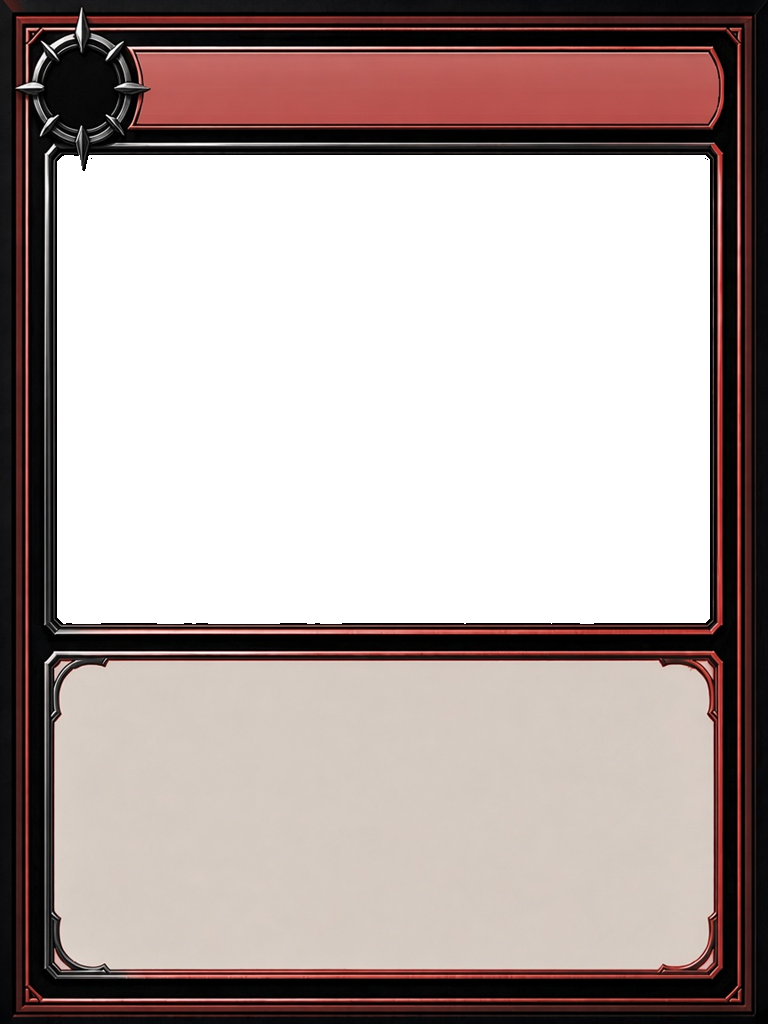
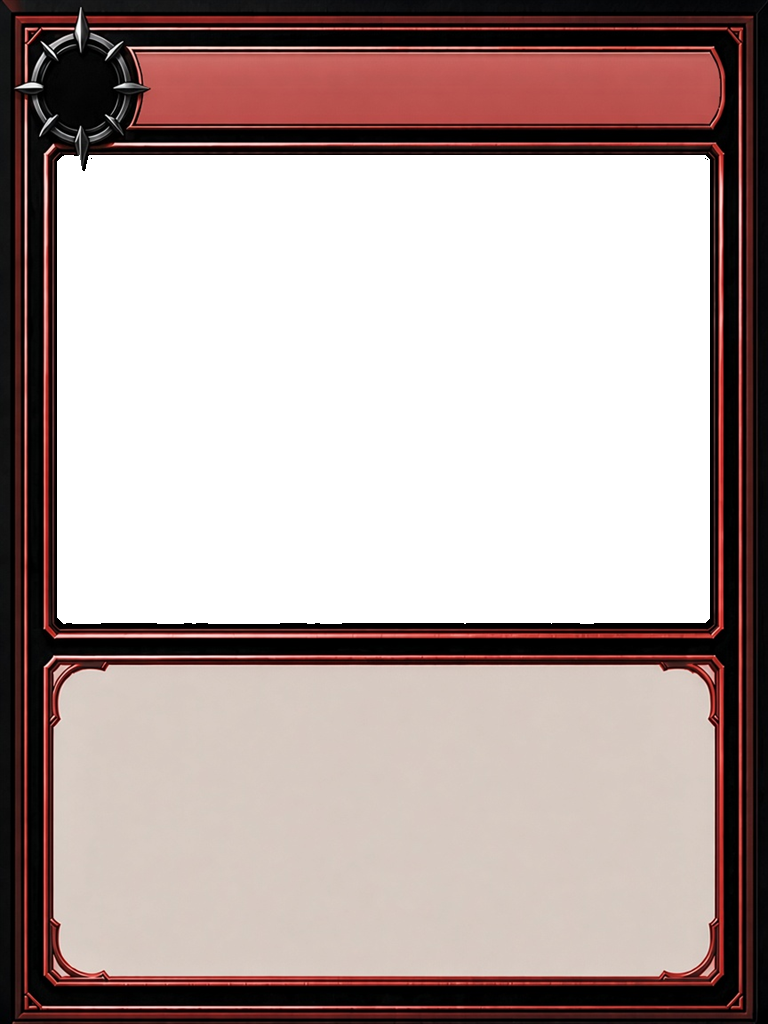
カードリストのマナ銅・金・黒は、棘の色だけを直す。

Changed region(s): [[0.0, 0.0, 1.0, 1.0], [0.25, 0.0312, 0.2812, 0.0625]]

diff --git a/index.html b/index.html
@@ -15818,10 +15818,10 @@
 
     const CARD_STYLE = [
       ["style-mana-red", "マナ赤", "frame-spike-red.png?v=1"],
-      ["style-mana-copper", "マナ銅", "frame-spike-copper.png?v=1"],
+      ["style-mana-copper", "マナ銅", "frame-spike-copper.png?v=2"],
       ["style-mana-silver", "マナ銀", "frame-spike-silver.png?v=1"],
-      ["style-mana-gold", "マナ金", "frame-spike-gold.png?v=1"],
-      ["style-mana-black", "マナ黒", "frame-spike-black.png?v=1"],
+      ["style-mana-gold", "マナ金", "frame-spike-gold.png?v=2"],
+      ["style-mana-black", "マナ黒", "frame-spike-black.png?v=2"],
       ["style-red", "アタック", "frame-metal-red.png?v=7"],
       ["style-blue", "ブロック", "frame-metal-blue.png?v=7"],
       ["style-yellow", "スキル", "frame-metal-yellow.png?v=7"],
